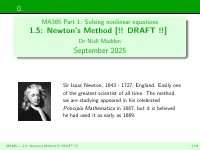
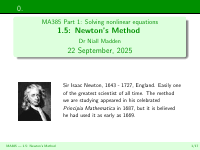
Newton (not draft)

Changed region(s): [[0.15, 0.16, 0.84, 0.24], [0.33, 0.2933, 0.66, 0.3733], [0.27, 0.96, 0.39, 0.9867]]

diff --git a/2526-MA385/index.html b/2526-MA385/index.html
@@ -95,7 +95,7 @@
     <div class="item"><a href="1-2-Bisection.pdf"><img src="thumbs/1-2-Bisection.png" alt="1-2-Bisection.pdf"><div class="label">1.2: Interval Bisection</div></a></div>
     <div class="item"><a href="1-3-Secant.pdf"><img src="thumbs/1-3-Secant.png" alt="1-3-Secant.pdf"><div class="label">1.3: The Secant Method</div></a></div>
     <div class="item"><a href="1-4-Taylor.pdf"><img src="thumbs/1-4-Taylor.png" alt="1-4-Taylor.pdf"><div class="label">1.4: Taylor's Theorem</div></a></div>
-    <div class="item"><a href="1-5-Newton.pdf"><img src="thumbs/1-5-Newton.png" alt="1-5-Newton.pdf"><div class="label">1.5: Newton's Method [!! DRAFT !!]</div></a></div>
+    <div class="item"><a href="1-5-Newton.pdf"><img src="thumbs/1-5-Newton.png" alt="1-5-Newton.pdf"><div class="label">1.5: Newton's Method</div></a></div>
     <div class="item"><a href="NiallMadden_FYP-Projects2526.pdf"><img src="thumbs/NiallMadden_FYP-Projects2526.png" alt="NiallMadden_FYP-Projects2526.pdf"><div class="label">NiallMadden_FYP-Projects2526.pdf</div></a></div>
   </div>
   <h1 id="annotations">Annotations</h1>
